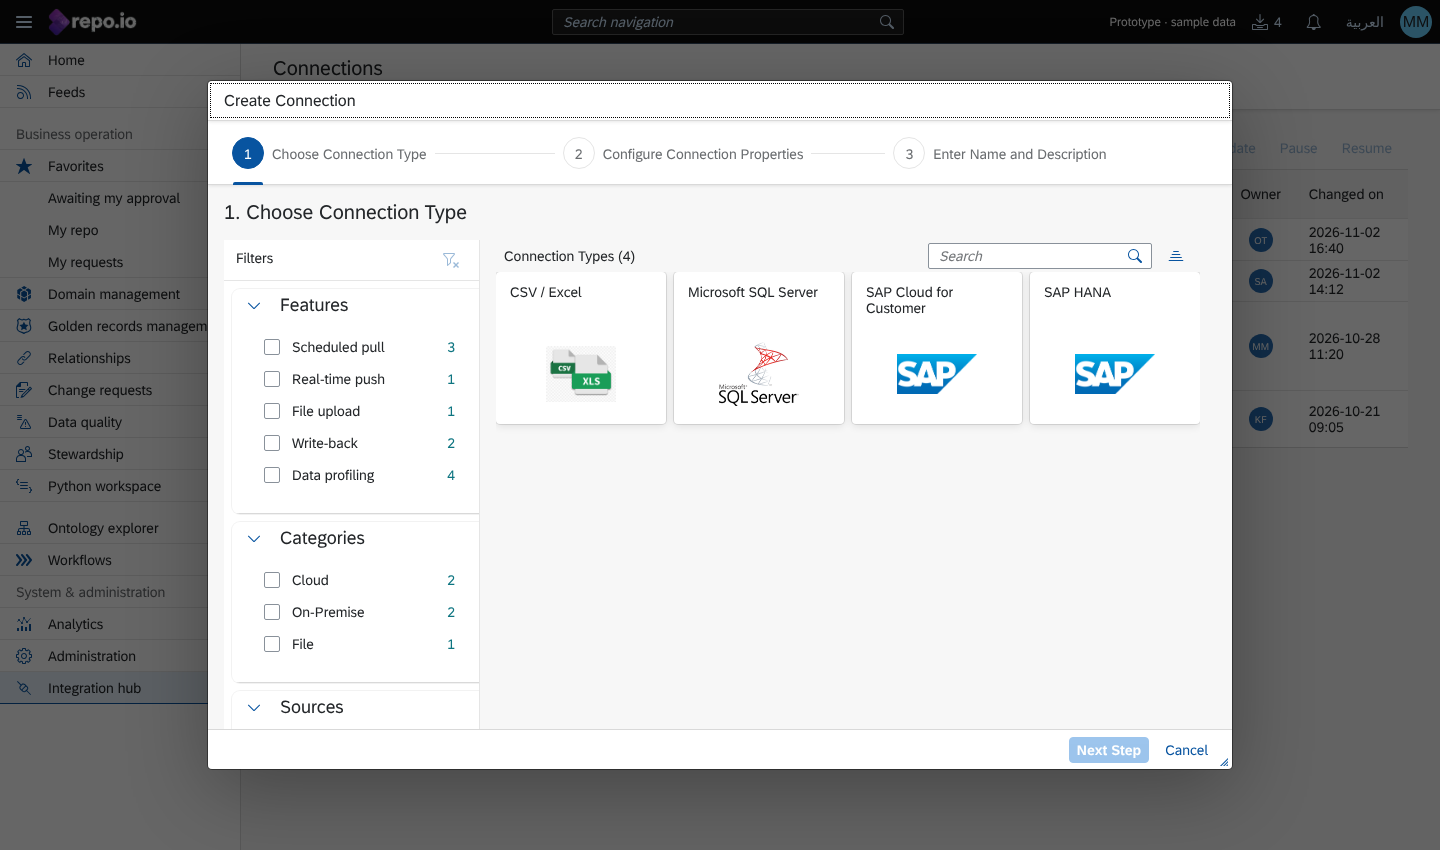
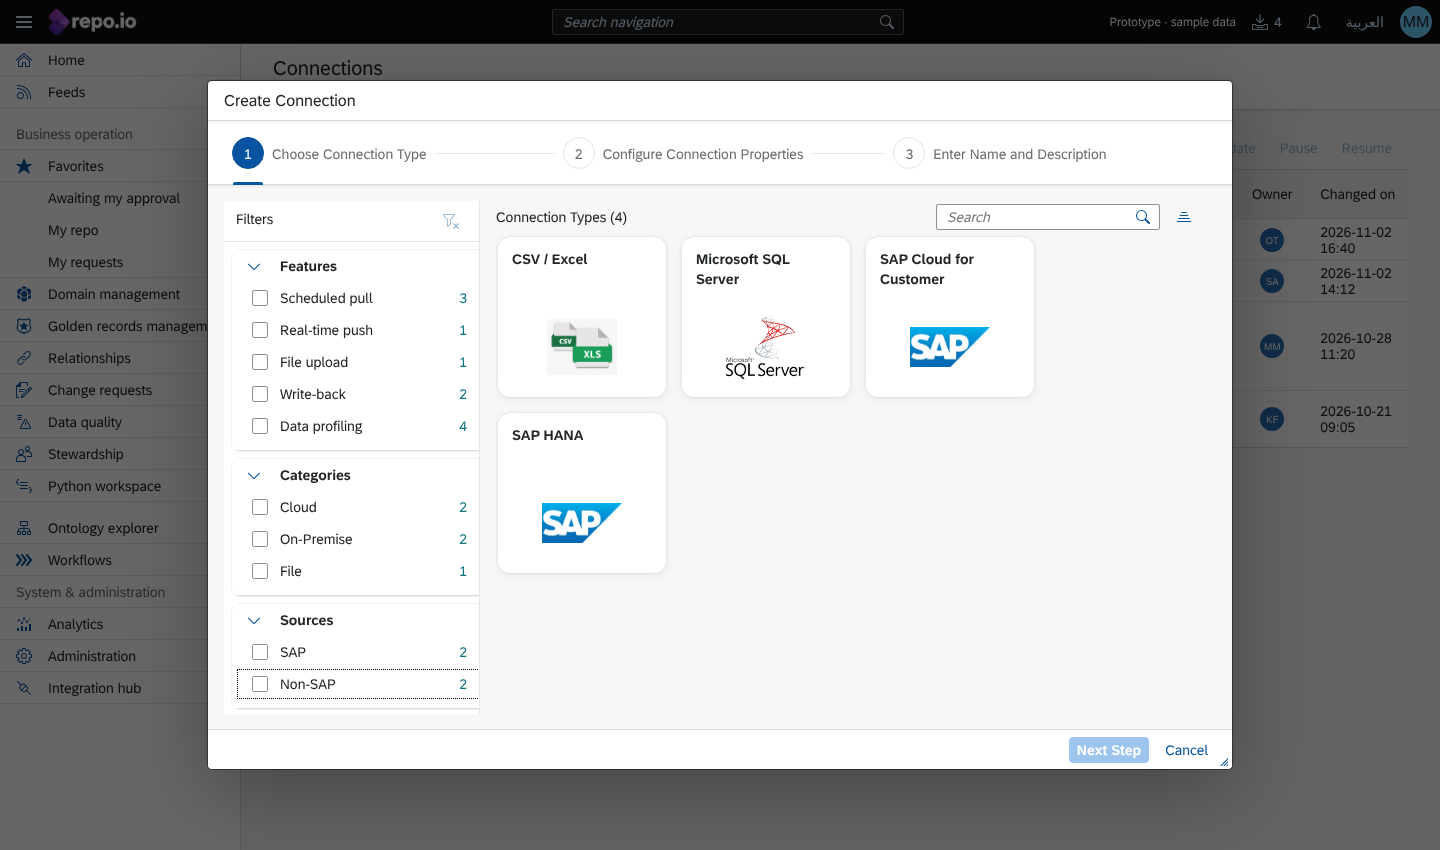
style(repoio-ui): fixed-size connection type tiles; no stray scrollbars in the dialog
Claude-Session: https://claude.ai/code/session_014MwTwj4qVcnTAy3XtzTwBt

diff --git a/repoio-ui/design-reference/openui5-prototype/webapp/css/style.css b/repoio-ui/design-reference/openui5-prototype/webapp/css/style.css
@@ -157,3 +157,11 @@
 .repoioConnFacet .sapMPanelHdr { font-size: 0.875rem; font-weight: bold; }
 .repoioConnFacet .sapMPanelContent { padding: 0 0.25rem 0.5rem; }
 .repoioTypeTile .sapMTitle { font-weight: bold; }
+/* Type tiles: fixed Datasphere tile size (no stretching when the filter leaves few types). */
+.repoioTypeGrid .sapUiLayoutCSSGridBoxLayoutContainer { grid-template-columns: repeat(auto-fill, 10.5rem) !important; gap: 1rem !important; padding: 0.25rem 0.125rem 1rem; }
+.repoioTypeGrid.sapMList { background: transparent; }
+.repoioTypeGrid .sapFGLI { width: 10.5rem; height: 10rem; border: none; box-shadow: 0 0 0.125rem rgba(0,0,0,0.12), 0 0.125rem 0.5rem rgba(0,0,0,0.08); background: #fff; }
+.repoioTypeGrid .sapFGLI:hover { box-shadow: 0 0 0.125rem rgba(0,0,0,0.15), 0 0.375rem 1rem rgba(0,0,0,0.12); }
+.repoioTypeGrid .sapFGLI.sapMLIBSelected { background: #fff; box-shadow: 0 0 0 0.125rem #0a6ed1; }
+.repoioTypeTile .sapMTitle { font-size: 0.875rem; line-height: 1.25rem; }
+.repoioConnTypes .sapMTB { padding-inline: 0; }
